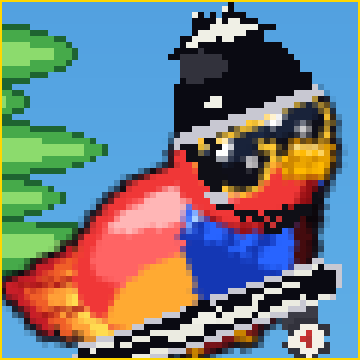
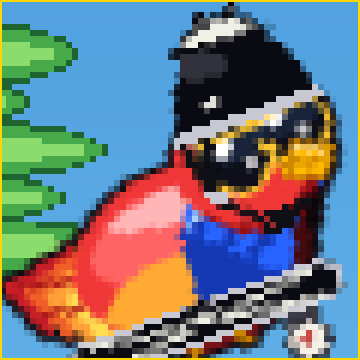
SKATEBOARD: 4× supersample helmet, chinstrap and skateboard
User asked for higher resolution / better quality on the helmet,
chinstrap and skateboard. Implemented 4× supersample on both
`Bird._draw_helmet` and `Bird._draw_skateboard`:

  * paint every primitive at 4× the logical size (helm surface
    becomes 128×204 instead of 32×51; board surface scales
    similarly)
  * smoothscale the painted surface down to native size before
    rotation + blit — gives anti-aliased edges on the dome curve,
    mohawk fin polygon, skull decal ellipse, side-release clip,
    chinstrap lines, skateboard deck corners and wheel circles

The chinstrap is part of the helm surface so it gets the same
treatment automatically. Visual style and layout unchanged — only
edge quality improved.

https://claude.ai/code/session_01Ms85cBEeRiAtxZBCNh5vN5

diff --git a/game/entities.py b/game/entities.py
@@ -1123,123 +1123,122 @@ class Bird:
           • chinstrap                   = OUT (15, 15, 22) — matches dome
           • adjuster / clip outline     = chrome     (200, 200, 210)
           • side-release clip body      = wheel centre (200, 50, 50)
-        Anchor (+18, -18) chosen by self-critique iteration so the
-        helmet sits naturally on Pip's crown — rim above the
-        sunglasses, mohawk fin clearly visible above the head. The
-        helm surface is extended below the rim (drop=28) so the
-        chinstrap can route past the jaw to a buckle at Pip's chin
-        without clipping; anchor y compensated so the dome stays put."""
+        Anchor (+18, -10) chosen by self-critique iteration so the
+        helmet sits naturally on Pip's crown. The helm surface is
+        extended below the rim (drop=28) so the chinstrap can route
+        past the jaw to a buckle at Pip's chin without clipping.
+
+        4× SUPERSAMPLE: all painting happens at 4× resolution, the
+        rotated result is smoothscale'd down before blit. Gives
+        anti-aliased edges on the dome curve, mohawk fin polygon,
+        skull decal ellipse, chinstrap lines and clip — much
+        smoother than pixel-snapped pygame primitives at the native
+        24×15 helm size."""
         s = self.shrink_scale
-        hw = int(24 * s)
-        hh = int(15 * s)
-        pad = 4
-        # Drop extended so the chinstrap can route below the chin.
-        # Anchor_y must compensate or the dome drifts up — see anchor
-        # block below.
-        drop = int(28 * s)
+        SS = 4  # supersample factor
+        # Logical (native) dimensions — coords below are conceptual
+        # and get multiplied by SS for the actual paint surface.
+        hw_n = int(24 * s)
+        hh_n = int(15 * s)
+        pad_n = 4
+        drop_n = int(28 * s)
+        # Supersampled paint dimensions.
+        hw = hw_n * SS
+        hh = hh_n * SS
+        pad = pad_n * SS
+        drop = drop_n * SS
         helm = pygame.Surface(
             (hw + pad * 2, hh + pad * 2 + drop), pygame.SRCALPHA)
 
         # Top-half dome — flat horizontal rim line at y = pad + hh.
-        # Draw the full ellipse to a temp surface, then blit only the
-        # top half onto helm so we get a half-dome silhouette.
+        # Drawing the ellipse at 4× resolution produces a much
+        # smoother curve before smoothscale-down.
         full = pygame.Surface((hw, hh * 2), pygame.SRCALPHA)
         pygame.draw.ellipse(full, (10, 10, 18),
                             pygame.Rect(0, 0, hw, hh * 2))
         helm.blit(full, (pad, pad), area=pygame.Rect(0, 0, hw, hh))
         # Forward-upper-quadrant highlight only — Pip faces right.
-        if hw > 9 and hh > 5:
-            hl = pygame.Surface((hw - 8, hh - 4), pygame.SRCALPHA)
+        if hw > 9 * SS and hh > 5 * SS:
+            hl_w = hw - 8 * SS
+            hl_h = hh - 4 * SS
+            hl = pygame.Surface((hl_w, hl_h), pygame.SRCALPHA)
             pygame.draw.ellipse(hl, (50, 50, 60),
-                                pygame.Rect(0, 0, hw - 8, hh - 4))
-            helm.blit(hl, (pad + 4, pad + 1),
-                      area=pygame.Rect((hw - 8) // 2, 0,
-                                       (hw - 8) // 2, (hh - 4) // 2 + 1))
+                                pygame.Rect(0, 0, hl_w, hl_h))
+            helm.blit(hl, (pad + 4 * SS, pad + 1 * SS),
+                      area=pygame.Rect(hl_w // 2, 0,
+                                       hl_w // 2, hl_h // 2 + 1))
 
         # Bone mohawk fin — SINGLE side-profile sail running front to
-        # back along the dome top.
+        # back along the dome top. Polygon vertices upscaled SS.
         fin = [
-            (pad + 3,           pad + 1),
-            (pad + hw // 2 - 2, pad - 3),
-            (pad + hw // 2 + 3, pad - 2),
-            (pad + hw - 4,      pad + 2),
+            (pad + 3 * SS,             pad + 1 * SS),
+            (pad + hw // 2 - 2 * SS,   pad - 3 * SS),
+            (pad + hw // 2 + 3 * SS,   pad - 2 * SS),
+            (pad + hw - 4 * SS,        pad + 2 * SS),
         ]
         pygame.draw.polygon(helm, (240, 240, 230), fin)
-        pygame.draw.polygon(helm, (10, 10, 18), fin, 1)
-        for sx in (pad + hw // 2 - 3, pad + hw // 2 + 2):
-            spike = [(sx, pad - 2), (sx + 1, pad - 5), (sx + 2, pad - 2)]
+        pygame.draw.polygon(helm, (10, 10, 18), fin, SS)
+        for sx in (pad + hw // 2 - 3 * SS, pad + hw // 2 + 2 * SS):
+            spike = [(sx, pad - 2 * SS),
+                     (sx + 1 * SS, pad - 5 * SS),
+                     (sx + 2 * SS, pad - 2 * SS)]
             pygame.draw.polygon(helm, (240, 240, 230), spike)
-            pygame.draw.polygon(helm, (10, 10, 18), spike, 1)
+            pygame.draw.polygon(helm, (10, 10, 18), spike, SS)
 
         # Single side vent on the visible panel.
         pygame.draw.line(helm, (10, 10, 18),
-                         (pad + hw // 2 - 2, pad + hh - 3),
-                         (pad + hw // 2 + 2, pad + hh - 3), 1)
+                         (pad + hw // 2 - 2 * SS, pad + hh - 3 * SS),
+                         (pad + hw // 2 + 2 * SS, pad + hh - 3 * SS), SS)
         # Chrome rim band — straight horizontal at the rim line.
         pygame.draw.rect(helm, (200, 200, 210),
-                         pygame.Rect(pad - 1, pad + hh - 1, hw + 2, 2))
+                         pygame.Rect(pad - 1 * SS, pad + hh - 1 * SS,
+                                     hw + 2 * SS, 2 * SS))
         # Side skull decal near the rear of the dome.
-        sk_w = max(3, int(5 * s))
-        sk_h = max(2, int(4 * s))
+        sk_w = max(3 * SS, int(5 * s * SS))
+        sk_h = max(2 * SS, int(4 * s * SS))
         sk = pygame.Rect(0, 0, sk_w, sk_h)
-        sk.center = (pad + hw // 2 - 5, pad + hh - 4)
+        sk.center = (pad + hw // 2 - 5 * SS, pad + hh - 4 * SS)
         pygame.draw.ellipse(helm, (240, 240, 230), sk)
-        pygame.draw.ellipse(helm, (10, 10, 18), sk, 1)
+        pygame.draw.ellipse(helm, (10, 10, 18), sk, SS)
 
-        # Chinstrap — picked variant N4 from commit 8464059's
-        # iterator: `_h4_variant_at(fa_x=8, ra_x=4, jx=6, cx=14)`.
-        # The V-junction sits "just below + slightly forward of
-        # the ear" (BHSI fit rule). The strap path stays on Pip's
-        # red feathers, behind the sunglasses lens. Surface coords
-        # are RAW (not pad-offset) — fa_x=8 means surface x=8.
-        #   front_anchor = (8, 20)
-        #   rear_anchor  = (4, 20)
-        #   junction     = (6, 30)
-        #   chin clip    = (14, 37)
+        # Chinstrap — N4 from commit 8464059 + R5 right strap.
+        # Coords at native resolution then multiplied by SS.
         OUT     = (15, 15, 22)
         CHROME  = (200, 200, 210)
         BUCKLE  = (200, 50, 50)
-        # Strap colour matches the dome so the chinstrap reads as
-        # part of the helmet rather than a separate piece. The
-        # clip's red body is the only chromatic accent.
         STRAP   = OUT
-        rim_y = pad + hh + 1
-        front_anchor = (8, rim_y)
-        rear_anchor  = (4, rim_y)
-        junction     = (6, 30)
-        clip_centre  = (14, 37)
-        pygame.draw.line(helm, STRAP, front_anchor, junction, 2)
-        pygame.draw.line(helm, STRAP, rear_anchor,  junction, 2)
-        pygame.draw.line(helm, STRAP, junction, clip_centre, 2)
-        # Plastic adjuster slider at the ear junction — tiny 3×2
-        # body with a chrome outline.
-        adj = pygame.Rect(junction[0] - 1, junction[1] - 1, 3, 2)
+        rim_y = pad + hh + 1 * SS
+        front_anchor = (8 * SS, rim_y)
+        rear_anchor  = (4 * SS, rim_y)
+        junction     = (6 * SS, 30 * SS)
+        clip_centre  = (14 * SS, 37 * SS)
+        pygame.draw.line(helm, STRAP, front_anchor, junction, 2 * SS)
+        pygame.draw.line(helm, STRAP, rear_anchor,  junction, 2 * SS)
+        pygame.draw.line(helm, STRAP, junction, clip_centre, 2 * SS)
+        # Plastic adjuster slider at the ear junction.
+        adj = pygame.Rect(junction[0] - 1 * SS, junction[1] - 1 * SS,
+                          3 * SS, 2 * SS)
         pygame.draw.rect(helm, (30, 30, 40), adj)
-        pygame.draw.rect(helm, CHROME, adj, 1)
-        # Side-release clip at the chin — 5×4 red body with a dark
-        # outline and a vertical groove where the two halves meet.
-        clip = pygame.Rect(clip_centre[0] - 2, clip_centre[1] - 2, 5, 4)
+        pygame.draw.rect(helm, CHROME, adj, SS)
+        # Side-release clip at the chin.
+        clip = pygame.Rect(clip_centre[0] - 2 * SS,
+                           clip_centre[1] - 2 * SS, 5 * SS, 4 * SS)
         pygame.draw.rect(helm, BUCKLE, clip)
-        pygame.draw.rect(helm, OUT, clip, 1)
+        pygame.draw.rect(helm, OUT, clip, SS)
         pygame.draw.line(helm, OUT,
-                         (clip.x + 2, clip.y),
-                         (clip.x + 2, clip.bottom - 1), 1)
-        # RIGHT chinstrap (variant R5): short forward-only segment
-        # from the buckle to (22, 35) — suggests the strap continues
-        # under the chin to the far-side helmet rim (hidden in side
-        # view). Connects to the LEFT strap at the buckle so the
-        # chinstrap reads as a full loop around the head, the way a
-        # real helmet's two-piece chinstrap actually looks.
-        pygame.draw.line(helm, STRAP, clip_centre, (22, 35), 2)
+                         (clip.x + 2 * SS, clip.y),
+                         (clip.x + 2 * SS, clip.bottom - 1 * SS), SS)
+        # RIGHT chinstrap (R5).
+        pygame.draw.line(helm, STRAP, clip_centre, (22 * SS, 35 * SS),
+                         2 * SS)
 
-        # Anchor (+18, -10) — x unchanged from the approved (+18, -18)
-        # pose, y compensated +8 because extending drop from 12 → 28
-        # shifted the helm surface centre down by 8 px. Without
-        # compensation the rotated rect's get_rect(center=...) would
-        # drift the dome up by 8 px. The dome's WORLD position is
-        # preserved. Rotates with tilt so the helmet banks with Pip
-        # and carries backflip spin. Reverse-gravity flips both the
-        # y-offset sign and the sprite.
+        # Anchor block — first scale helm DOWN to native resolution
+        # (smoothscale gives the anti-aliased edges), then rotate
+        # and blit as before. Rotating after scale-down keeps the
+        # surface size small for the transform.
+        native_size = (hw_n + pad_n * 2,
+                       hh_n + pad_n * 2 + drop_n)
+        helm = pygame.transform.smoothscale(helm, native_size)
         tilt = -self.tilt_deg if flipped else self.tilt_deg
         y_off = 10 * s if flipped else -10 * s
         offset = pygame.math.Vector2(18 * s, y_off)
@@ -1255,65 +1254,86 @@ class Bird:
         """Skull skateboard under Pip's feet — black deck with a chrome
         outline, white skull centred, white crossbones diagonals. Cream
         wheels with red bullseye. Matches the skull helmet (kit).
+
+        4× SUPERSAMPLE — same approach as `_draw_helmet`. The deck's
+        rounded corners, the skull ellipse, the wheel circles, the
+        crossbone diagonals all benefit from the smoother curves /
+        anti-aliased edges that come from painting at 4× then
+        smoothscale-down.
         """
         from game.config import PARCEL_Y_OFFSET
         s = self.shrink_scale
-        # Deck length bumped 34 → 48 so the board reads as a proper
-        # skateboard plank under Pip rather than a short stub. Truck/
-        # wheel positions key off board_w (board_w * 0.32) so they
-        # scale with the deck automatically.
-        board_w = int(48 * s)
-        deck_h = max(4, int(7 * s))
+        SS = 4
+        # Native (logical) dimensions.
+        board_w_n = int(48 * s)
+        deck_h_n  = max(4, int(7 * s))
+        pad_n     = 10
+        native_w  = board_w_n + pad_n * 2
+        native_h  = deck_h_n * 5 + pad_n * 2
+        # Supersampled paint dimensions.
+        board_w = board_w_n * SS
+        deck_h  = deck_h_n * SS
+        pad     = pad_n * SS
+
         y_off = -PARCEL_Y_OFFSET * s if flipped else PARCEL_Y_OFFSET * s
         offset = pygame.math.Vector2(0, y_off + 4 * s)
         offset = offset.rotate(-(self.tilt_deg if not flipped else -self.tilt_deg))
         bx = cx + offset.x
         by = cy + offset.y
-        pad = 10
         board_surf = pygame.Surface(
             (board_w + pad * 2, deck_h * 5 + pad * 2), pygame.SRCALPHA)
-        bsx, bsy = board_surf.get_width() // 2, board_surf.get_height() // 2 - 2
+        bsx = board_surf.get_width() // 2
+        bsy = board_surf.get_height() // 2 - 2 * SS
         deck = pygame.Rect(0, 0, board_w, deck_h)
         deck.center = (bsx, bsy)
         # Chrome outline + black fill.
-        pygame.draw.rect(board_surf, (200, 200, 210), deck, border_radius=3)
-        pygame.draw.rect(board_surf, (10, 10, 18), deck.inflate(-2, -2),
-                         border_radius=2)
+        pygame.draw.rect(board_surf, (200, 200, 210), deck,
+                         border_radius=3 * SS)
+        pygame.draw.rect(board_surf, (10, 10, 18),
+                         deck.inflate(-2 * SS, -2 * SS),
+                         border_radius=2 * SS)
         # Crossbones diagonals.
         pygame.draw.line(board_surf, (235, 235, 225),
-                         (deck.left + 4, deck.top + 1),
-                         (deck.right - 4, deck.bottom - 1), 1)
+                         (deck.left + 4 * SS, deck.top + 1 * SS),
+                         (deck.right - 4 * SS, deck.bottom - 1 * SS), SS)
         pygame.draw.line(board_surf, (235, 235, 225),
-                         (deck.left + 4, deck.bottom - 1),
-                         (deck.right - 4, deck.top + 1), 1)
+                         (deck.left + 4 * SS, deck.bottom - 1 * SS),
+                         (deck.right - 4 * SS, deck.top + 1 * SS), SS)
         # Skull logo at deck centre.
-        sk_w = max(5, int(7 * s))
-        sk_h = max(3, int(5 * s))
+        sk_w = max(5 * SS, int(7 * s * SS))
+        sk_h = max(3 * SS, int(5 * s * SS))
         sk_rect = pygame.Rect(0, 0, sk_w, sk_h)
-        sk_rect.center = (bsx, deck.centery - 1)
+        sk_rect.center = (bsx, deck.centery - 1 * SS)
         pygame.draw.ellipse(board_surf, (240, 240, 230), sk_rect)
-        pygame.draw.ellipse(board_surf, (10, 10, 18), sk_rect, 1)
-        eye_y = sk_rect.centery - 1
+        pygame.draw.ellipse(board_surf, (10, 10, 18), sk_rect, SS)
+        eye_y = sk_rect.centery - 1 * SS
         pygame.draw.circle(board_surf, (10, 10, 18),
-                           (sk_rect.centerx - 1, eye_y), 1)
+                           (sk_rect.centerx - 1 * SS, eye_y), 1 * SS)
         pygame.draw.circle(board_surf, (10, 10, 18),
-                           (sk_rect.centerx + 1, eye_y), 1)
+                           (sk_rect.centerx + 1 * SS, eye_y), 1 * SS)
         # Trucks + cream wheels with red bullseye.
-        truck_h = max(1, int(2 * s))
-        wheel_r = max(2, int(3 * s))
+        truck_h = max(1 * SS, int(2 * s * SS))
+        wheel_r = max(2 * SS, int(3 * s * SS))
         spin = self.frame_t * 4.0
         for sign in (-1, 1):
-            tx = bsx + sign * int(board_w * 0.32) - 3
+            tx = bsx + sign * int(board_w * 0.32) - 3 * SS
             pygame.draw.rect(board_surf, (60, 60, 70),
-                             (tx, deck.bottom, 6, truck_h))
+                             (tx, deck.bottom, 6 * SS, truck_h))
             wx = bsx + sign * int(board_w * 0.32)
             wy = deck.bottom + truck_h + wheel_r
-            pygame.draw.circle(board_surf, (50, 50, 60), (wx, wy), wheel_r + 1)
-            pygame.draw.circle(board_surf, (245, 240, 230), (wx, wy), wheel_r)
-            pygame.draw.circle(board_surf, (200, 50, 50), (wx, wy), 1)
-            sx = wx + int(math.cos(spin + sign * 1.0) * wheel_r * 0.6)
-            sy = wy + int(math.sin(spin + sign * 1.0) * wheel_r * 0.6)
-            pygame.draw.line(board_surf, (180, 50, 50), (wx, wy), (sx, sy), 1)
+            pygame.draw.circle(board_surf, (50, 50, 60), (wx, wy),
+                               wheel_r + 1 * SS)
+            pygame.draw.circle(board_surf, (245, 240, 230), (wx, wy),
+                               wheel_r)
+            pygame.draw.circle(board_surf, (200, 50, 50), (wx, wy), 1 * SS)
+            sx_p = wx + int(math.cos(spin + sign * 1.0) * wheel_r * 0.6)
+            sy_p = wy + int(math.sin(spin + sign * 1.0) * wheel_r * 0.6)
+            pygame.draw.line(board_surf, (180, 50, 50), (wx, wy),
+                             (sx_p, sy_p), SS)
+        # Smoothscale down to native size BEFORE rotation so the
+        # rotated bitmap stays small (cheaper transform).
+        board_surf = pygame.transform.smoothscale(board_surf,
+                                                  (native_w, native_h))
         tilt = -self.tilt_deg if flipped else self.tilt_deg
         rotated = pygame.transform.rotate(board_surf, tilt)
         if flipped:
